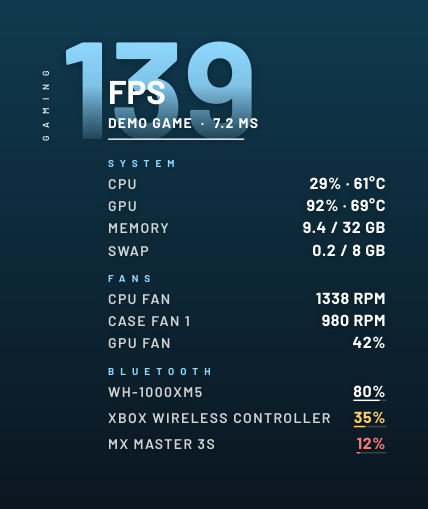
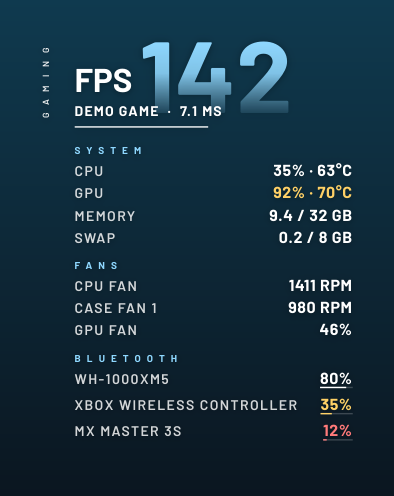
Poster: °C superscript, number further right, CPU or GPU as the big number

diff --git a/prism_monitor/ui.py b/prism_monitor/ui.py
@@ -315,22 +315,30 @@ class Overlay(QWidget):
         show = lambda key: self.opt(key, True)  # noqa: E731
         fps = snap.fps if show('show/fps') else None
         sys_rows = []
+
+        def chip_row(label, chip):
+            if chip is not None and chip.has_data():
+                sys_rows.append(P.Row(label, chip_text(chip).replace('  ·  ', ' · '), P.temp_color(chip.temp)))
+
+        has_gpu = gpu is not None and gpu.has_data()
         if fps:
             name = fps.app.removesuffix('.exe').upper()
-            hero = (f'{fps.fps:.0f}', 'FPS', f'{name[:18]}  ·  {fps.frametime_ms:.1f} MS')
+            hero = (f'{fps.fps:.0f}', '', 'FPS', f'{name[:18]}  ·  {fps.frametime_ms:.1f} MS')
             caption = 'GAMING'
-            if cpu is not None and cpu.has_data():
-                sys_rows.append(P.Row('CPU', chip_text(cpu).replace('  ·  ', ' · '), P.temp_color(cpu.temp)))
-        elif cpu is not None and cpu.temp is not None:
-            load = f'{cpu.load:.0f}% LOAD  ·  ' if cpu.load is not None else ''
-            hero = (f'{cpu.temp:.0f}', 'CPU', f'{load}{cpu.temp:.0f}°C')
-            caption = 'MONITOR'
+            chip_row('CPU', cpu)
+            chip_row('GPU', gpu)
         else:
-            load = cpu.load if cpu is not None and cpu.load is not None else 0
-            hero = (f'{load:.0f}', 'CPU', 'LOAD  %')
             caption = 'MONITOR'
-        if gpu is not None and gpu.has_data():
-            sys_rows.append(P.Row('GPU', chip_text(gpu).replace('  ·  ', ' · '), P.temp_color(gpu.temp)))
+            # the big number follows the user's choice; GPU falls back to CPU when there is no GPU sensor
+            use_gpu = self.opt('hero', 'cpu') == 'gpu' and has_gpu
+            chip, label = (gpu, 'GPU') if use_gpu else (cpu, 'CPU')
+            if chip is not None and chip.temp is not None:
+                load = f'{chip.load:.0f}% LOAD' if chip.load is not None else ''
+                hero = (f'{chip.temp:.0f}', '°C', label, load)
+            else:
+                load = chip.load if chip is not None and chip.load is not None else 0
+                hero = (f'{load:.0f}', '%', label, 'LOAD')
+            chip_row('GPU', gpu) if not use_gpu else chip_row('CPU', cpu)
         if mem is not None:
             sys_rows.append(P.Row('MEMORY', f'{mem.used_gb:.1f} / {mem.total_gb:.0f} GB',
                                   P.WARN if mem.percent >= 90 else P.TEXT))
@@ -509,6 +517,11 @@ class Controller:
             a = look.addAction(text, lambda k=key: self.set_option('style', k))
             a.setCheckable(True)
             a.setChecked(o.opt('style', 'poster') == key)
+        big = menu.addMenu('Big number (Poster look)')
+        for key, text in (('cpu', 'CPU temperature'), ('gpu', 'GPU temperature (CPU if no GPU sensor)')):
+            a = big.addAction(text, lambda k=key: self.set_option('hero', k))
+            a.setCheckable(True)
+            a.setChecked(o.opt('hero', 'cpu') == key)
         size = menu.addMenu('Size (Poster look)')
         for key in ('small', 'medium', 'large'):
             a = size.addAction(key.title(), lambda k=key: self.set_option('size', k))

diff --git a/prism_monitor/poster.py b/prism_monitor/poster.py
@@ -77,7 +77,7 @@ class PosterView(QWidget):
         super().__init__()
         load_fonts()
         self.scale = 1.0
-        self.hero: tuple[str, str, str] = ('', '', '')  # number, headline, subline
+        self.hero: tuple[str, str, str, str] = ('', '', '', '')  # number, unit, headline, subline
         self.caption = 'SYSTEM'
         self.groups: list[Group] = []
         self.setAttribute(Qt.WA_TranslucentBackground)
@@ -109,7 +109,7 @@ class PosterView(QWidget):
     def _layout(self, p: QPainter | None) -> QSize:
         m = 46.0 * self.scale  # Still's "main size"
         pad = 10 * self.scale
-        number, headline, subline = self.hero
+        number, unit, headline, subline = self.hero
 
         num_font = font(m * 2.2, QFont.Bold)  # background number: smaller than Still's, sits right of the headline start
         num_fm = QFontMetricsF(num_font)
@@ -124,7 +124,7 @@ class PosterView(QWidget):
         cap_col = cap_fm.height() + m * .22
 
         y = pad
-        num_x = pad + cap_col + m * 1.1  # shifted right, behind the headline
+        num_x = pad + cap_col + m * 1.7  # shifted right, behind the end of the headline
         head_font = font(m * .72, QFont.Bold)
         head_fm = QFontMetricsF(head_font)
         head_ink = head_fm.tightBoundingRect('M')
@@ -140,7 +140,10 @@ class PosterView(QWidget):
         line_y = sub_cap + sub_ink.height() + m * .2
         line_w = max(m * 1.1, sub_fm.horizontalAdvance(subline) * .9)
 
-        width = max(num_x + num_w, head_x + head_fm.horizontalAdvance(headline),
+        unit_font = font(m * .62, QFont.Bold)
+        unit_fm = QFontMetricsF(unit_font)
+        unit_x = num_x + num_w + m * .06
+        width = max(num_x + num_w + (unit_fm.horizontalAdvance(unit) + m * .06 if unit else 0), head_x + head_fm.horizontalAdvance(headline),
                     head_x + sub_fm.horizontalAdvance(subline), head_x + line_w)
         hero_bottom = max(y + num_h, y + cap_len, line_y + 2 * self.scale)
 
@@ -152,7 +155,13 @@ class PosterView(QWidget):
             grad.setColorAt(1, alpha(ACCENT, 28 / 255))
             p.setFont(num_font)
             p.setPen(QPen(grad, 0))
-            p.drawText(QPointF(num_x + (num_w - num_fm.horizontalAdvance(number)) / 2, y - num_top), number)
+            number_w = num_fm.horizontalAdvance(number)
+            p.drawText(QPointF(num_x + (num_w - number_w) / 2, y - num_top), number)
+            if unit:  # unit sits at the top right of the number, like a superscript
+                unit_x = num_x + (num_w + number_w) / 2 + m * .06
+                p.setFont(unit_font)
+                p.setPen(alpha(ACCENT, .95))
+                p.drawText(QPointF(unit_x, y - unit_fm.tightBoundingRect('C').top()), unit)
             # vertical caption, reading bottom to top
             p.save()
             p.translate(pad + cap_fm.ascent(), y + max(num_h, cap_len))

diff --git a/tests/test_ui.py b/tests/test_ui.py
@@ -38,7 +38,7 @@ class OverlayTests(unittest.TestCase):
         overlay.refresh()
         self.assertTrue(overlay.poster.isVisibleTo(overlay))
         self.assertFalse(overlay.fans.isVisibleTo(overlay))
-        self.assertEqual(overlay.poster.hero[1], 'FPS')
+        self.assertEqual(overlay.poster.hero[2], 'FPS')
         self.assertEqual([g.caption for g in overlay.poster.groups], ['SYSTEM', 'FANS', 'BLUETOOTH'])
         self.assertGreater(overlay.poster.width(), 200)
         settings.clear()

diff --git a/README.md b/README.md
@@ -49,7 +49,7 @@ On a Wayland session the widget runs through XWayland, because Wayland doesn't l
 ## Using the widget
 
 - Drag the widget to move it. Right-click it, or the tray icon, for the menu.
-- **Look:** *Poster* (the default) matches the Still desktop clock: no panel, bold Barlow lettering, a large faded light-blue number (CPU temperature, or FPS while you play) and a vertical caption. *Card* is a compact dark panel. Poster comes in Small, Medium and Large.
+- **Look:** *Poster* (the default) matches the Still desktop clock: no panel, bold Barlow lettering, a large faded light-blue number with a °C mark (CPU or GPU temperature, your choice; FPS while you play) and a vertical caption. *Card* is a compact dark panel. Poster comes in Small, Medium and Large.
 - It's a widget, not an app window: it doesn't appear in the taskbar/dock or Alt+Tab, and on KDE Plasma it shows on every virtual desktop.
 - **Stay on top of windows** (on by default, so you can see it over games). Turn it off to have it sit on the desktop behind your windows, like a clock widget.
 - In the menu you can show or hide each section, lock its position, make it **click-through** (clicks pass to the game; turn it off again from the tray), change the background opacity, and start it at sign-in.
